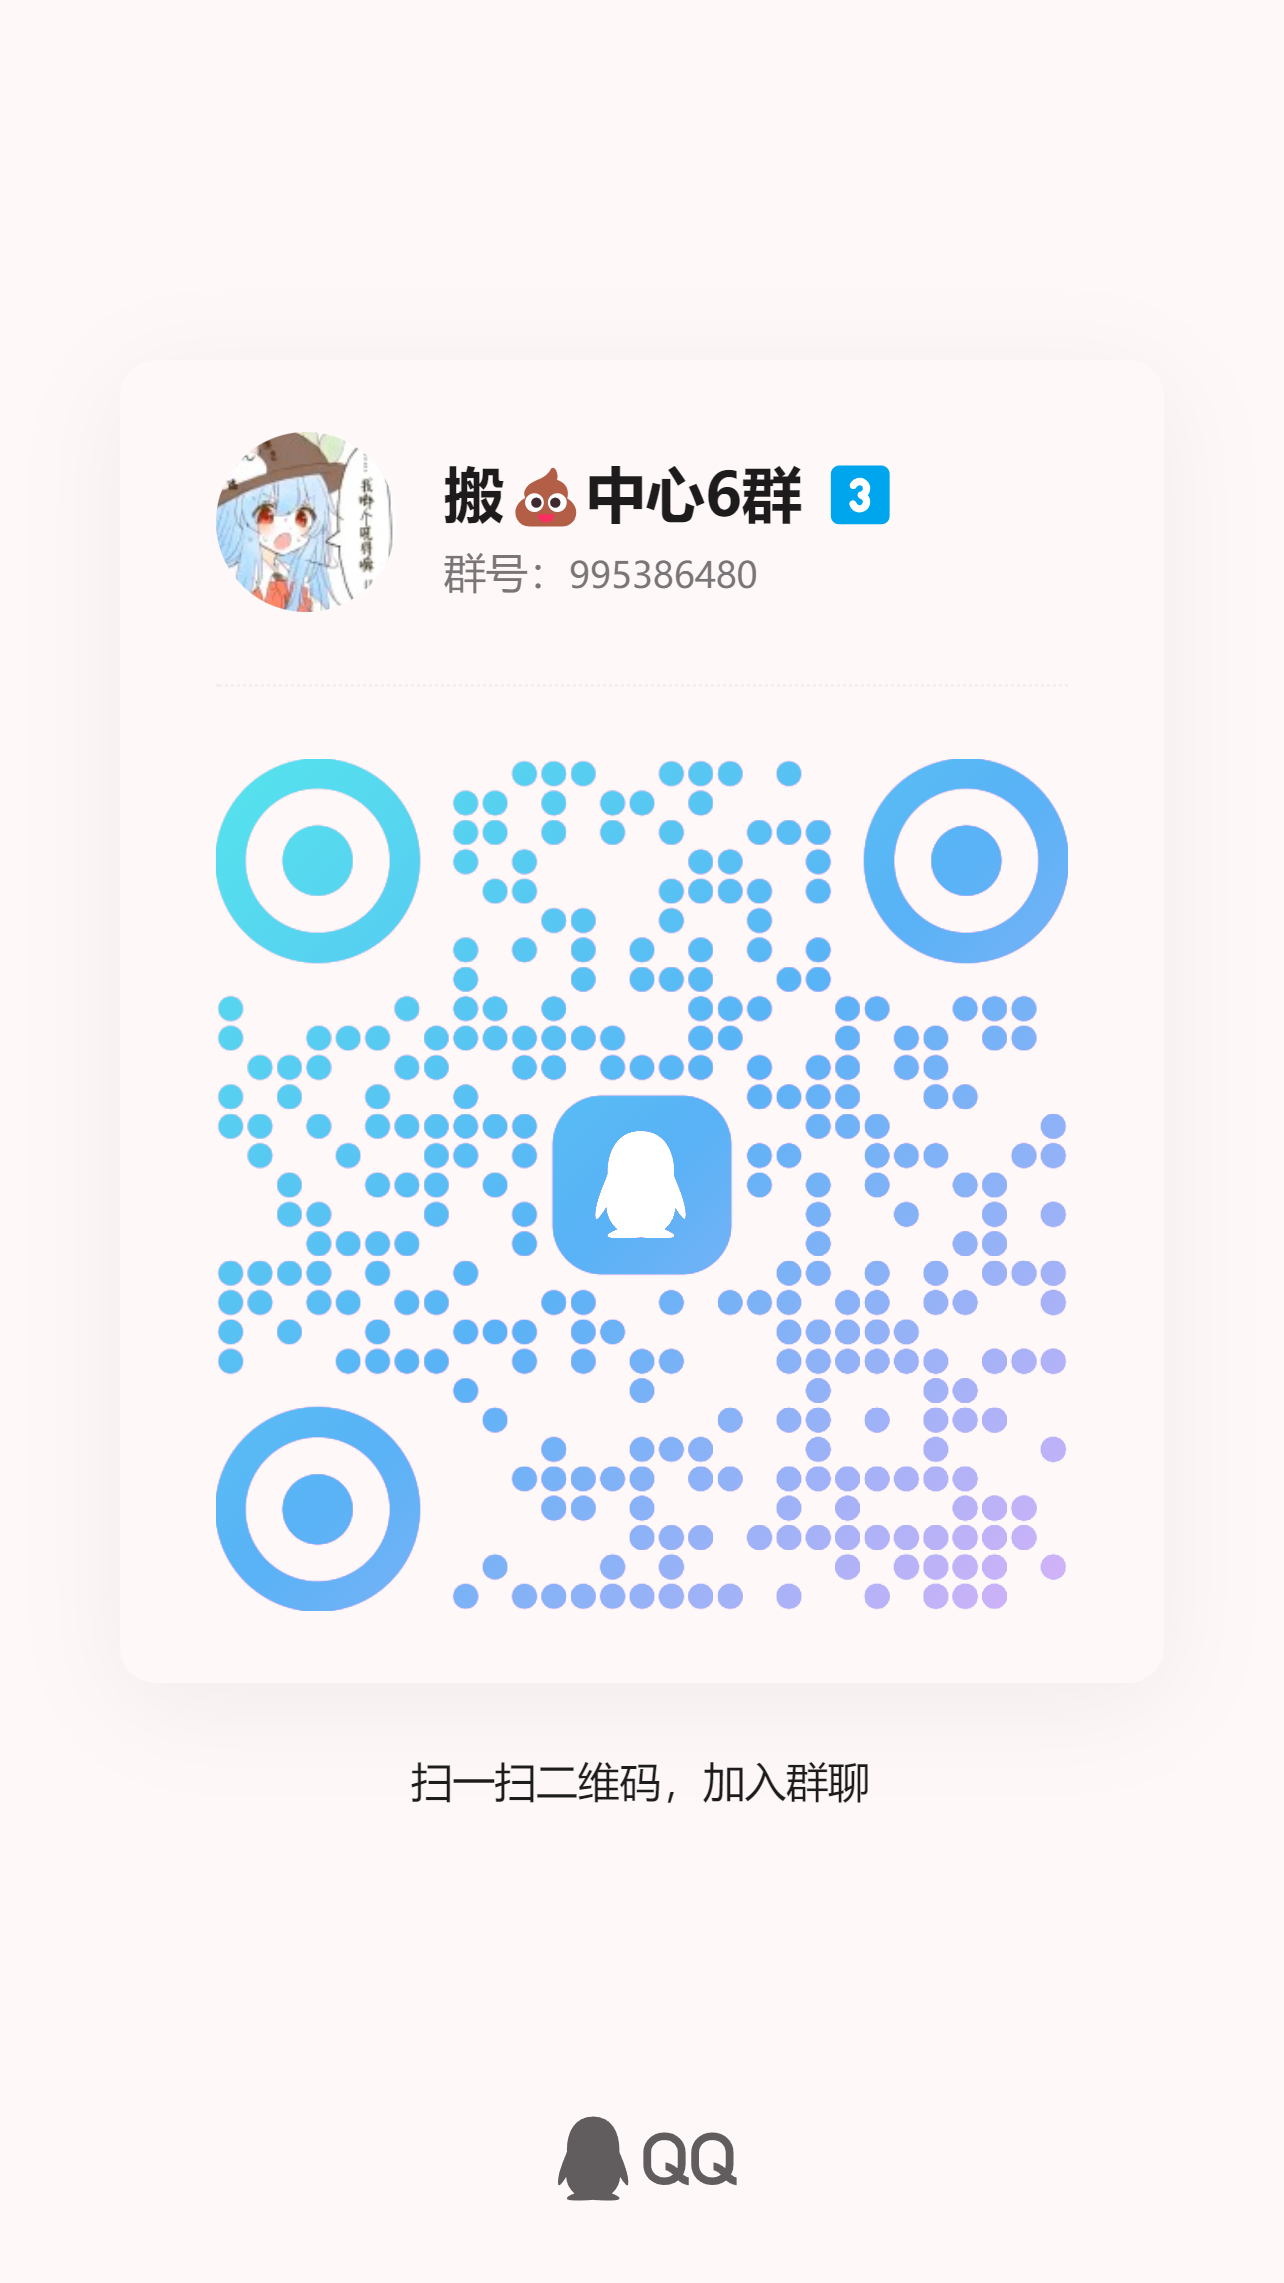
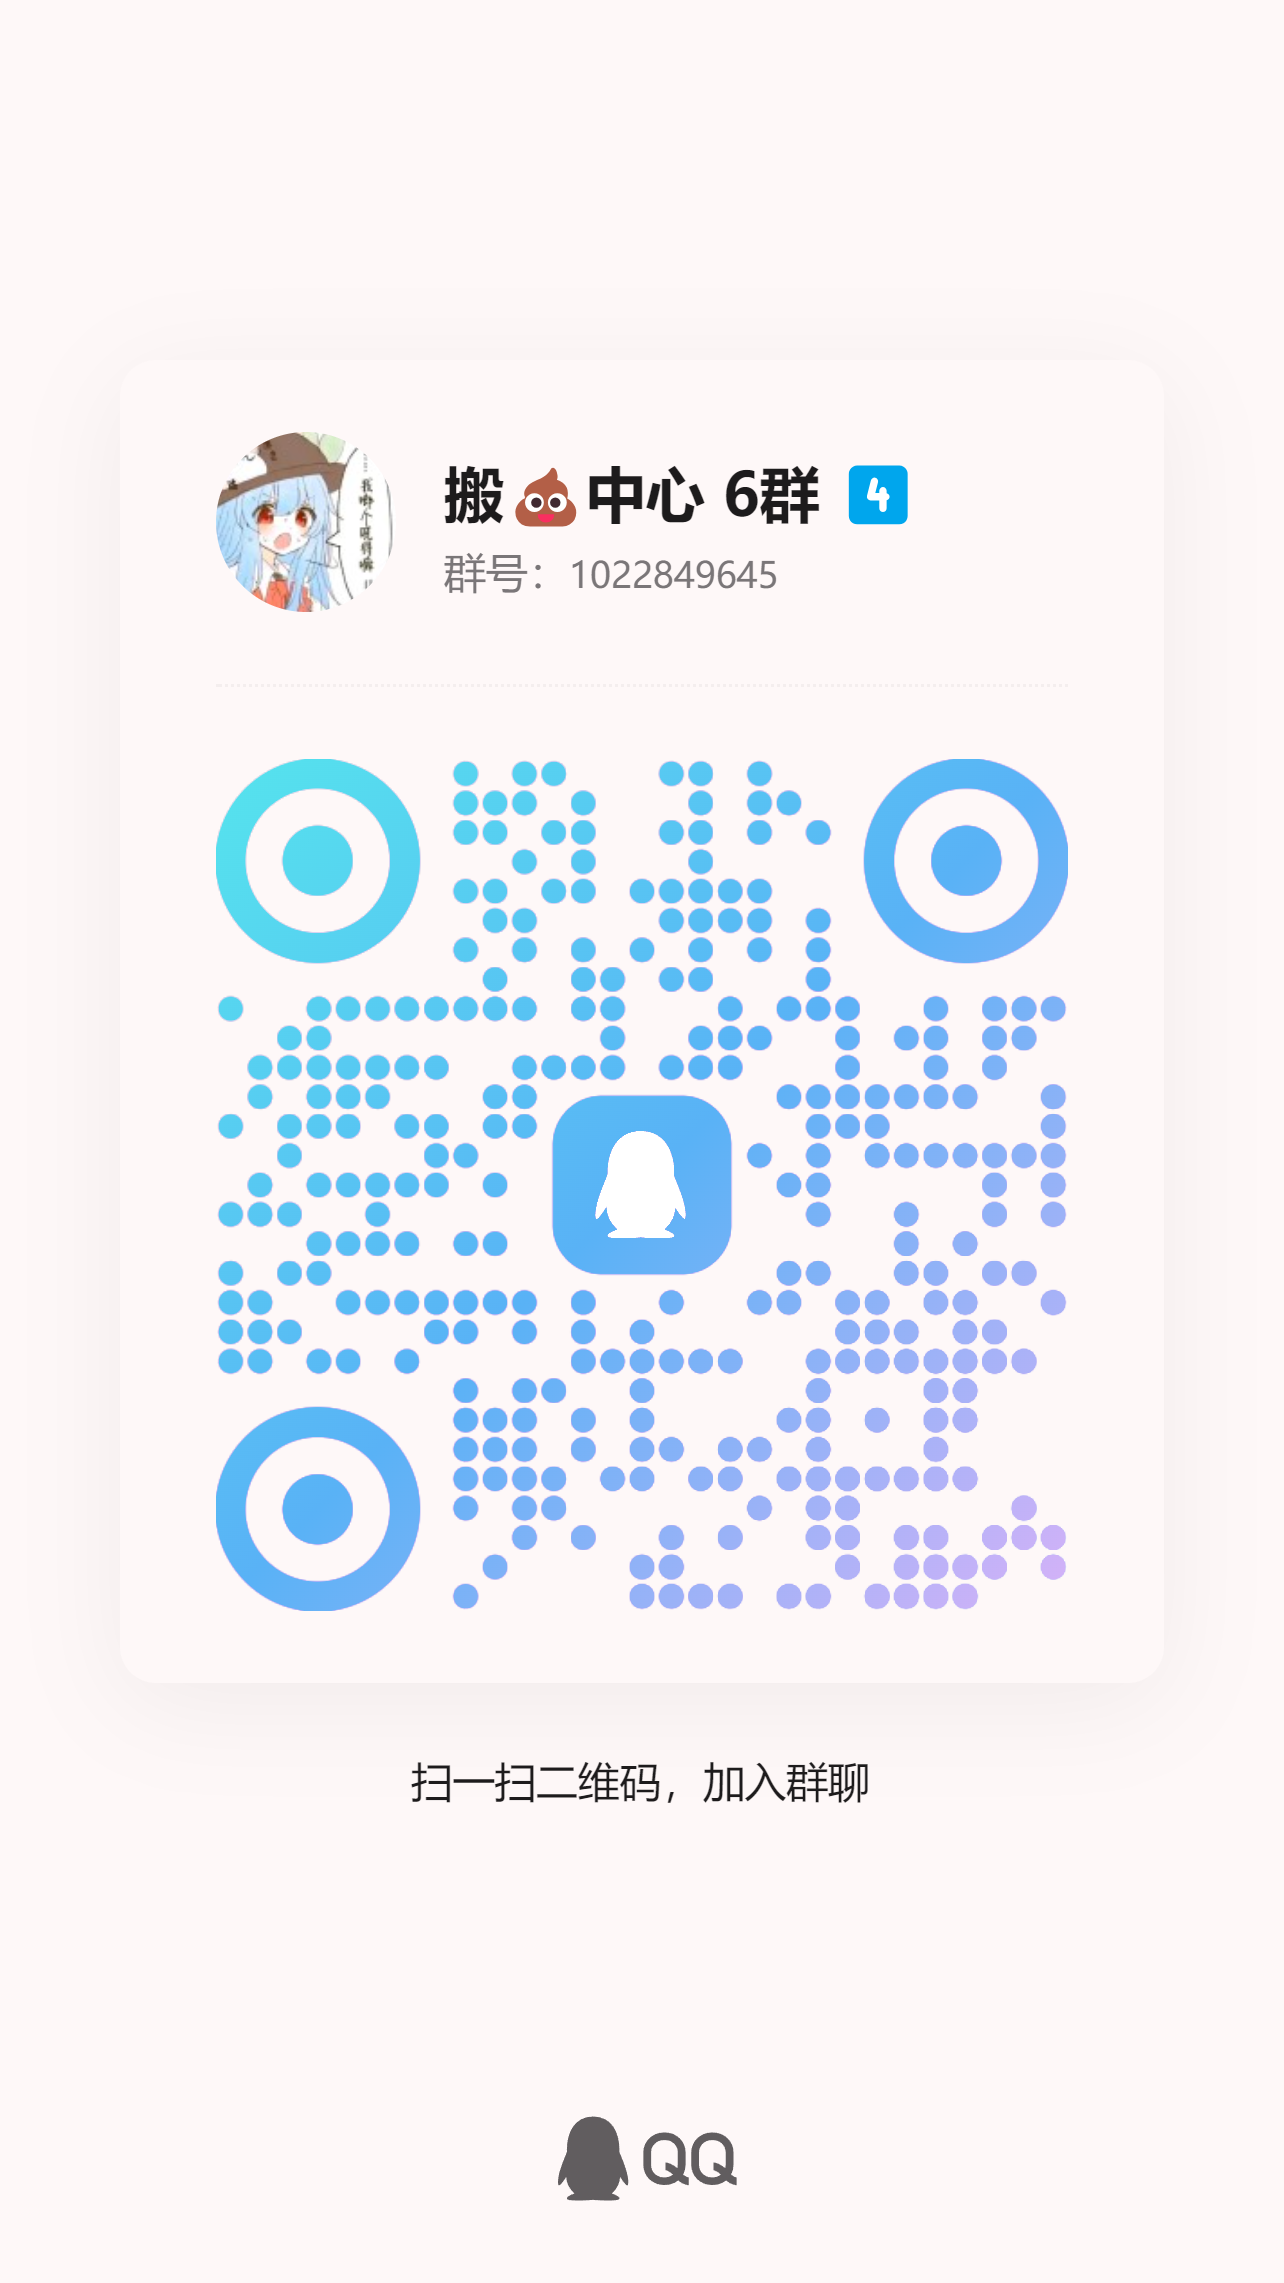
update

diff --git a/source/_posts/12-6-更新恢复公告.md b/source/_posts/12-6-更新恢复公告.md
@@ -1,0 +1,22 @@
+---
+title: 12-6 更新恢复公告
+date: 2025-12-06 11:31:20
+tags:
+---
+
+月底考试后会进行大更新, 目前的路线是先把群聊管理相关功能完善, 此外还会有功能投票
+
+目前预计添加的功能有:
+
+1. 更新入群审核方式
+2. 炸群恢复, 自动邀请
+3. 群消息同步
+4. 投稿
+5. 投票禁言/踢出
+
+新功能请前往
+
+不仅如此, 群规也需要更新, 希望大家多多支持, 文档地址:
+https://docs.qq.com/smartsheet/DRm91SGtpVGdMQ1RG?tab=t00i2h
+
+群聊管理机器人是**开源**的, 欢迎大家前往[项目地址](https://github.com/anka-afk/astrbot_plugin_banshi_administrator)查看代码, 也欢迎大家提出建议和 PR

diff --git a/source/groups/index.md b/source/groups/index.md
@@ -27,8 +27,8 @@ date: 2025-09-16 10:57:46
 
 注意:群号很可能无法搜索!所以请使用链接
 
-1 群：921926398
-链接: https://qm.qq.com/q/MU0ZNLV7yy
+1 群：1029509055
+链接: https://qm.qq.com/q/HbgO0pKKM8
 二维码:
 {% img /images/qrcode_group_1.jpg 250 "一群" %}
 
@@ -52,8 +52,8 @@ date: 2025-09-16 10:57:46
 二维码:
 {% img /images/qrcode_group_5.jpg 250 "五群" %}
 
-6 群：995386480
-链接: https://qm.qq.com/q/vDSOzc2Vyg
+6 群：1022849645
+链接: https://qm.qq.com/q/CRRVpmQsee
 二维码:
 {% img /images/qrcode_group_6.jpg 250 "六群" %}
 

diff --git a/source/_posts/12-6-一群爆炸及六群恢复.md b/source/_posts/12-6-一群爆炸及六群恢复.md
@@ -1,0 +1,19 @@
+---
+title: 12-6 一群爆炸及六群恢复
+date: 2025-12-06 11:30:19
+tags:
+---
+
+今天早上一群又炸了, 已经恢复, 新群号, 链接, 及二维码如下页:
+
+{% flink %}
+
+- class_name: 点我跳转
+  link_list:
+
+  - name: 搬史中心入口
+    link: /sowing_discord_center/groups/
+    avatar:
+    descr: (其实它就在顶栏)
+
+{% endflink %}
